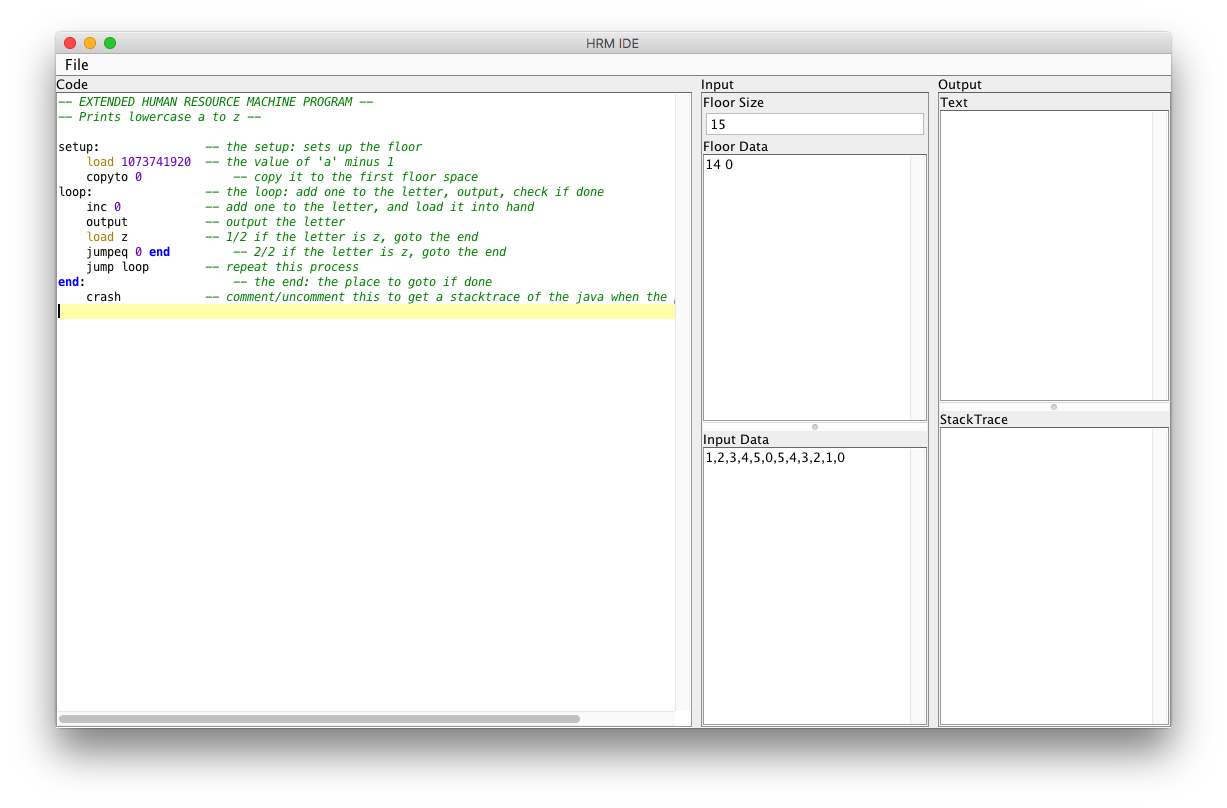
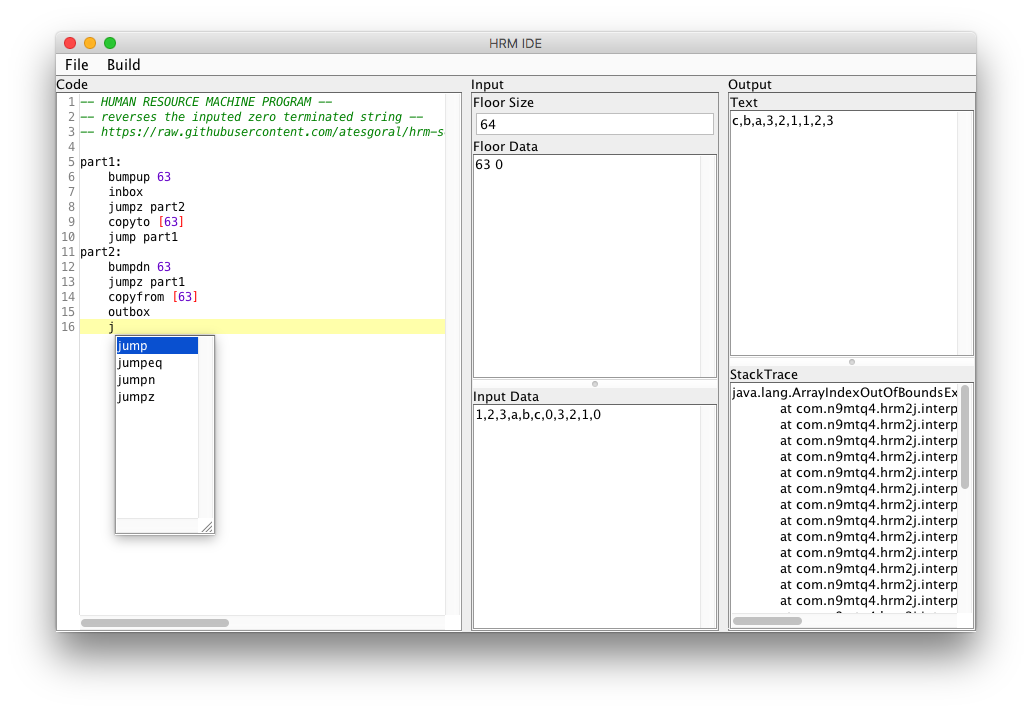
update readme

Changed region(s): [[0.031, 0.0309, 0.9612, 0.927]]

diff --git a/README.md b/README.md
@@ -15,7 +15,7 @@ HRM2J does not interpret the hrm assembly, instead it converts it into java. Thi
 |-----|-----|
 |HRM2J (Fast)|76|
 |HRM2J (Interpret)|97|
-|HRM2J (Bytecode)|???|
+|HRM2J (Bytecode NYI)|???|
 |[hrmsandbox](https://github.com/sixlettervariables/hrmsandbox)|602|
 
 Benchmark was performed with [this code (for level 41)](https://github.com/atesgoral/hrm-solutions/blob/9c92d7137f6a7593ab35389ab284fd3dcebd2a74/solutions/41-Sorting-Floor-34.714/20.651.selection-sniperrifle2004.asm),
@@ -25,8 +25,26 @@ being measured on 1000 runs. The measure was in running only, parsing the input 
 ```
 
 ## The GUI
-The GUI is being worked on, so you don't have to actually code in order to run a program.
-It doesn't work yet, but there are big plans for it.
+The gui is still in development, and isn't very user-friendly, but is gets the job done.
+In the code area, there is makeshift syntax highlighting as well as autocompletion.
+The input area, the floor data must be entered as two entries per line.
+For example if you want spot 0 to have a 1, spot 1 to have a 10 and spot 2 to have an 'a' do this:
+```
+0 1
+1 10
+2 a
+```
+The input data is entered as a long string separated by commas. For example
+```
+1,2,3,4,a,b,c
+```
+In both of these you can use letters and numbers and we can guess what data type it is without
+quotes. If you specifically want a character (like the char 1, not the number), you can surround it with
+single quotes like '1'. The input data could consist of 
+```
+1,'1'
+```
+Outboxing both will yeild the same output, but try adding them, and you will get 1073741874, instead of 2.
 
 ### Planned
 The following diagram is a plan for the graphical interface.
